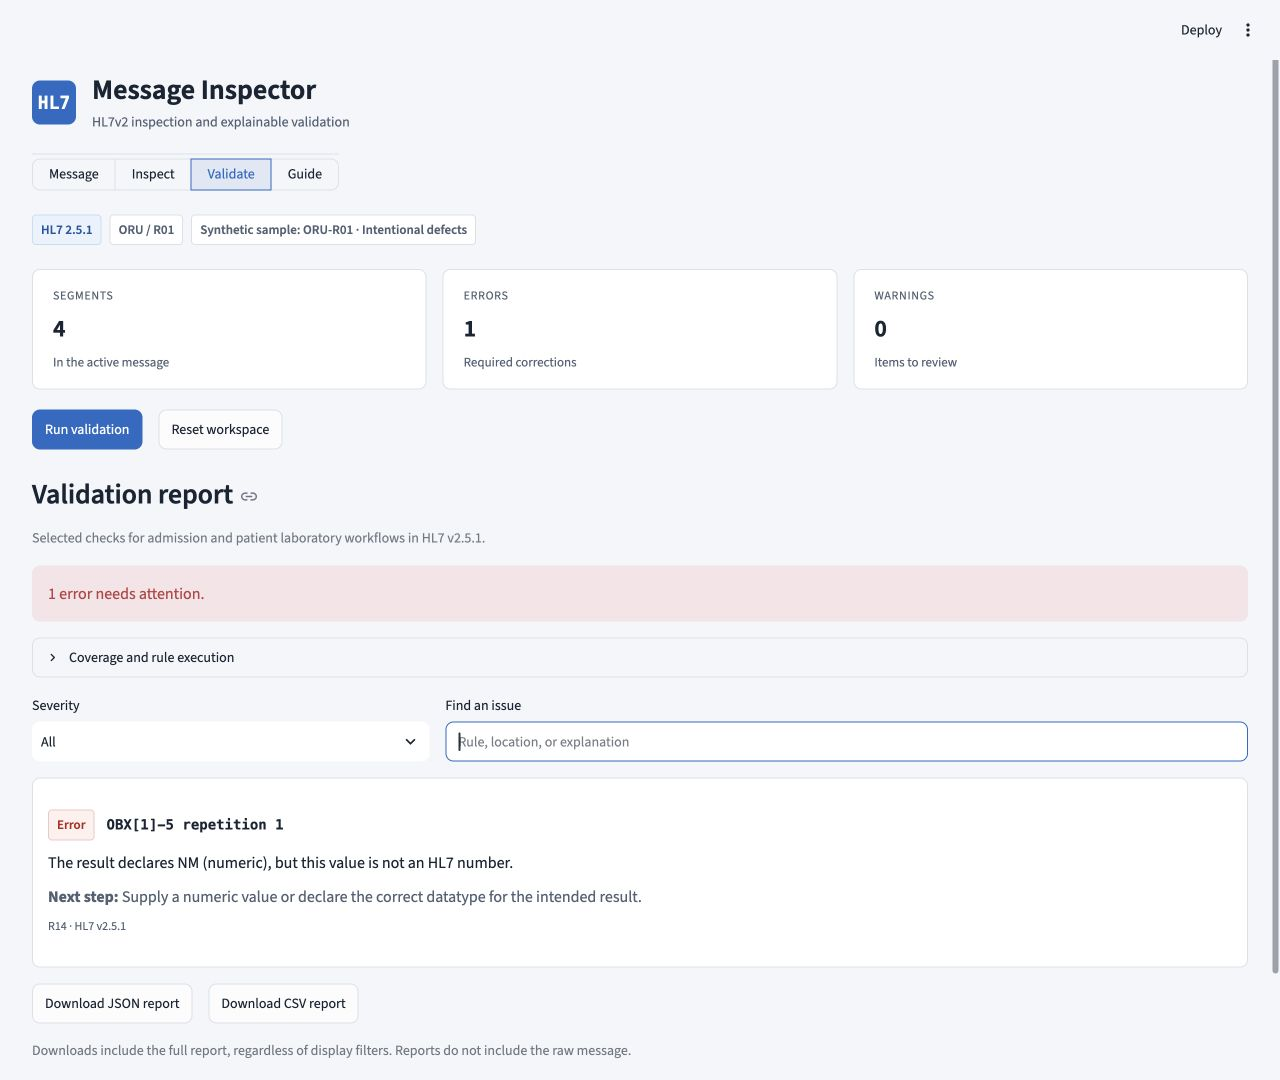
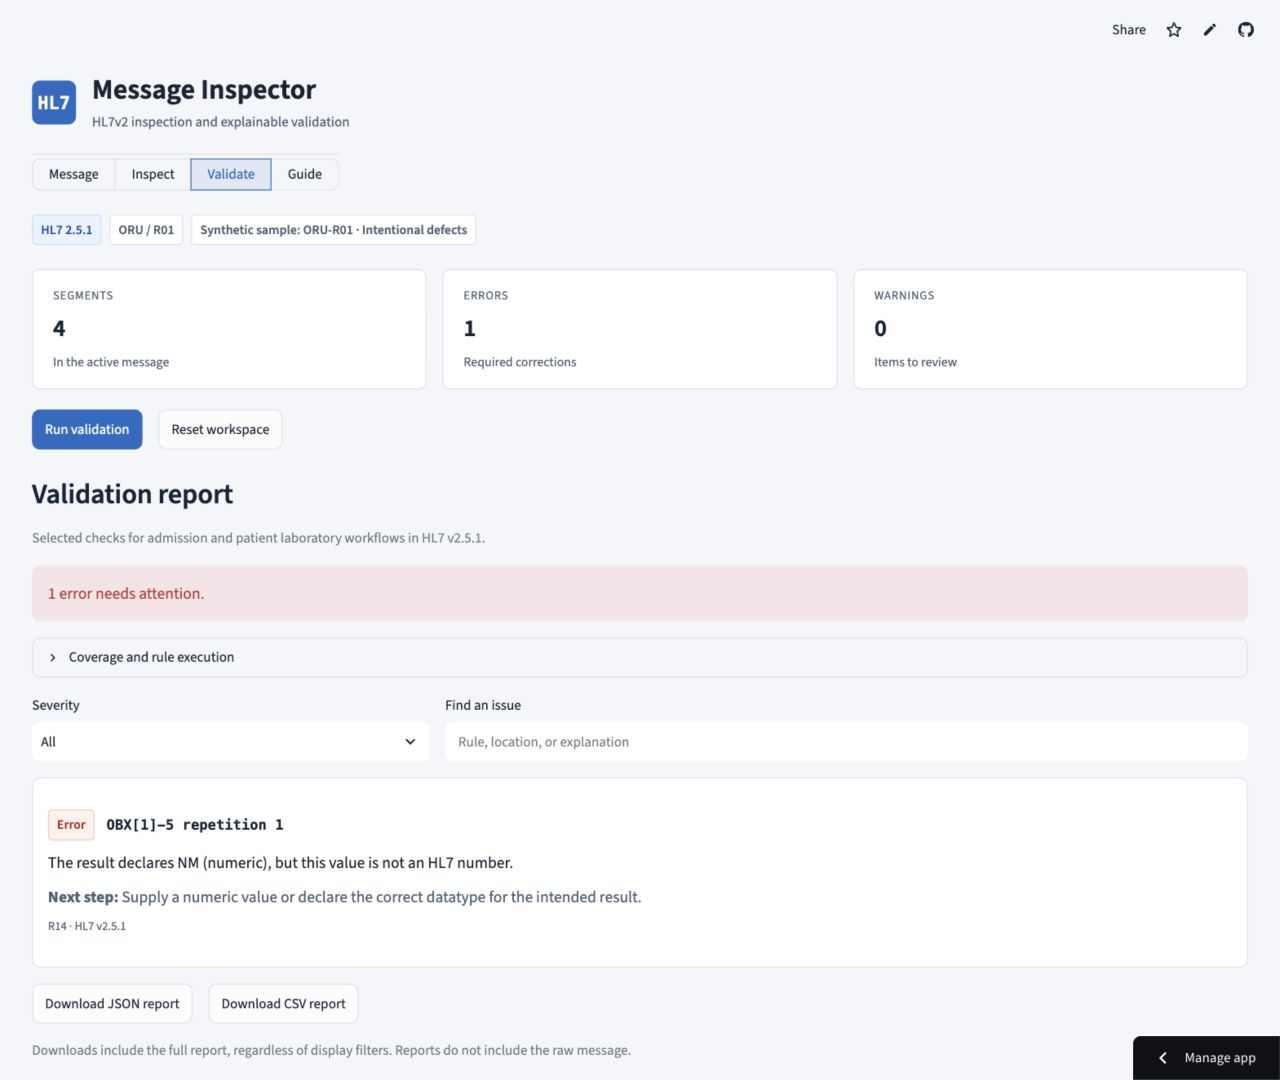
Document verified public deployment

diff --git a/README.md b/README.md
@@ -2,6 +2,8 @@
 
 A focused tool for healthcare integration engineers, interface analysts, and learners practicing HL7v2 troubleshooting. Paste or upload a message, inspect its structure, and read validation issues with locations and practical next steps.
 
+Try the [live app](https://hl7v2-inspector-validator.streamlit.app/).
+
 The inspector preserves raw field positions alongside hl7apy parsing. The validator checks three bounded HL7 v2.5.1 profiles and exports structured reports as JSON or CSV.
 
 ![Validation workspace](assets/validation-workspace.jpg)
@@ -100,4 +102,4 @@ assets/                 README screenshot
 
 ## Deployment
 
-Deploy the `main` branch and `app.py` using [Streamlit Community Cloud](https://share.streamlit.io/). Select Python 3.12 in advanced settings. `requirements.txt` contains the runtime dependencies; development requirements are not needed on the server. No secrets are required. [Official deployment instructions](https://docs.streamlit.io/deploy/streamlit-community-cloud/deploy-your-app/deploy) describe the account and GitHub connection steps. A public app link will be added after deployment and verification.
+Deploy the `main` branch and `app.py` using [Streamlit Community Cloud](https://share.streamlit.io/). Select Python 3.12 in advanced settings. `requirements.txt` contains the runtime dependencies; development requirements are not needed on the server. No secrets are required. [Official deployment instructions](https://docs.streamlit.io/deploy/streamlit-community-cloud/deploy-your-app/deploy) describe the account and GitHub connection steps. The public deployment was verified on October 9, 2026 using synthetic inputs, including uploads, inspection, validation, and JSON/CSV downloads.
